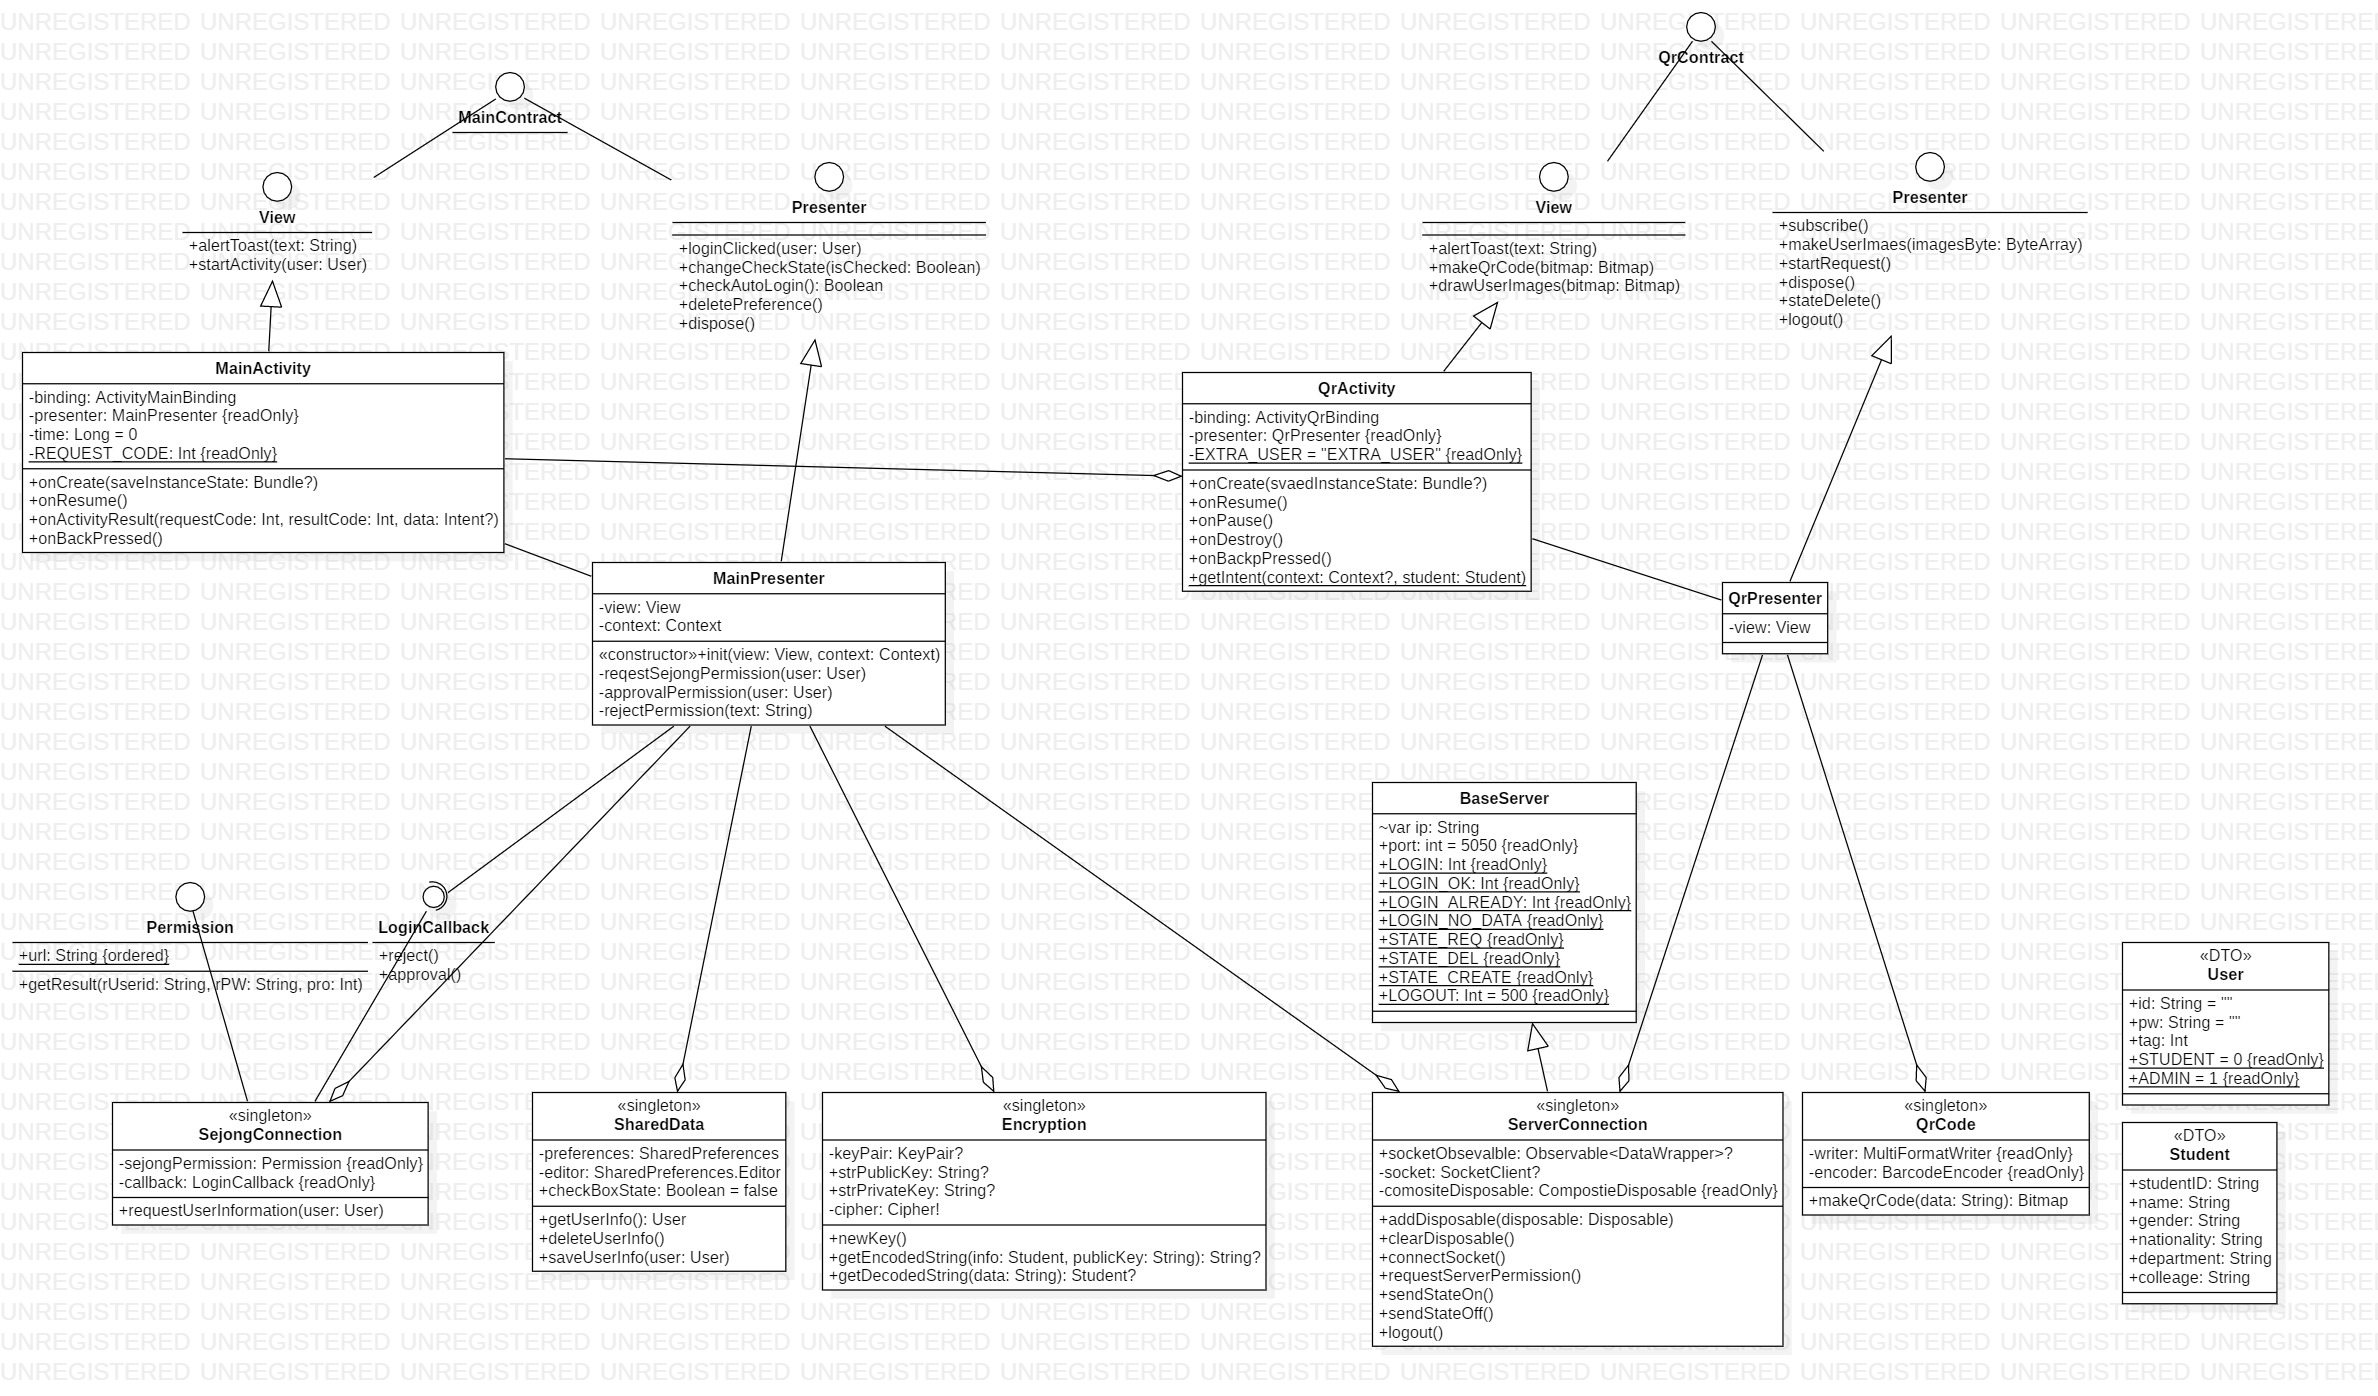
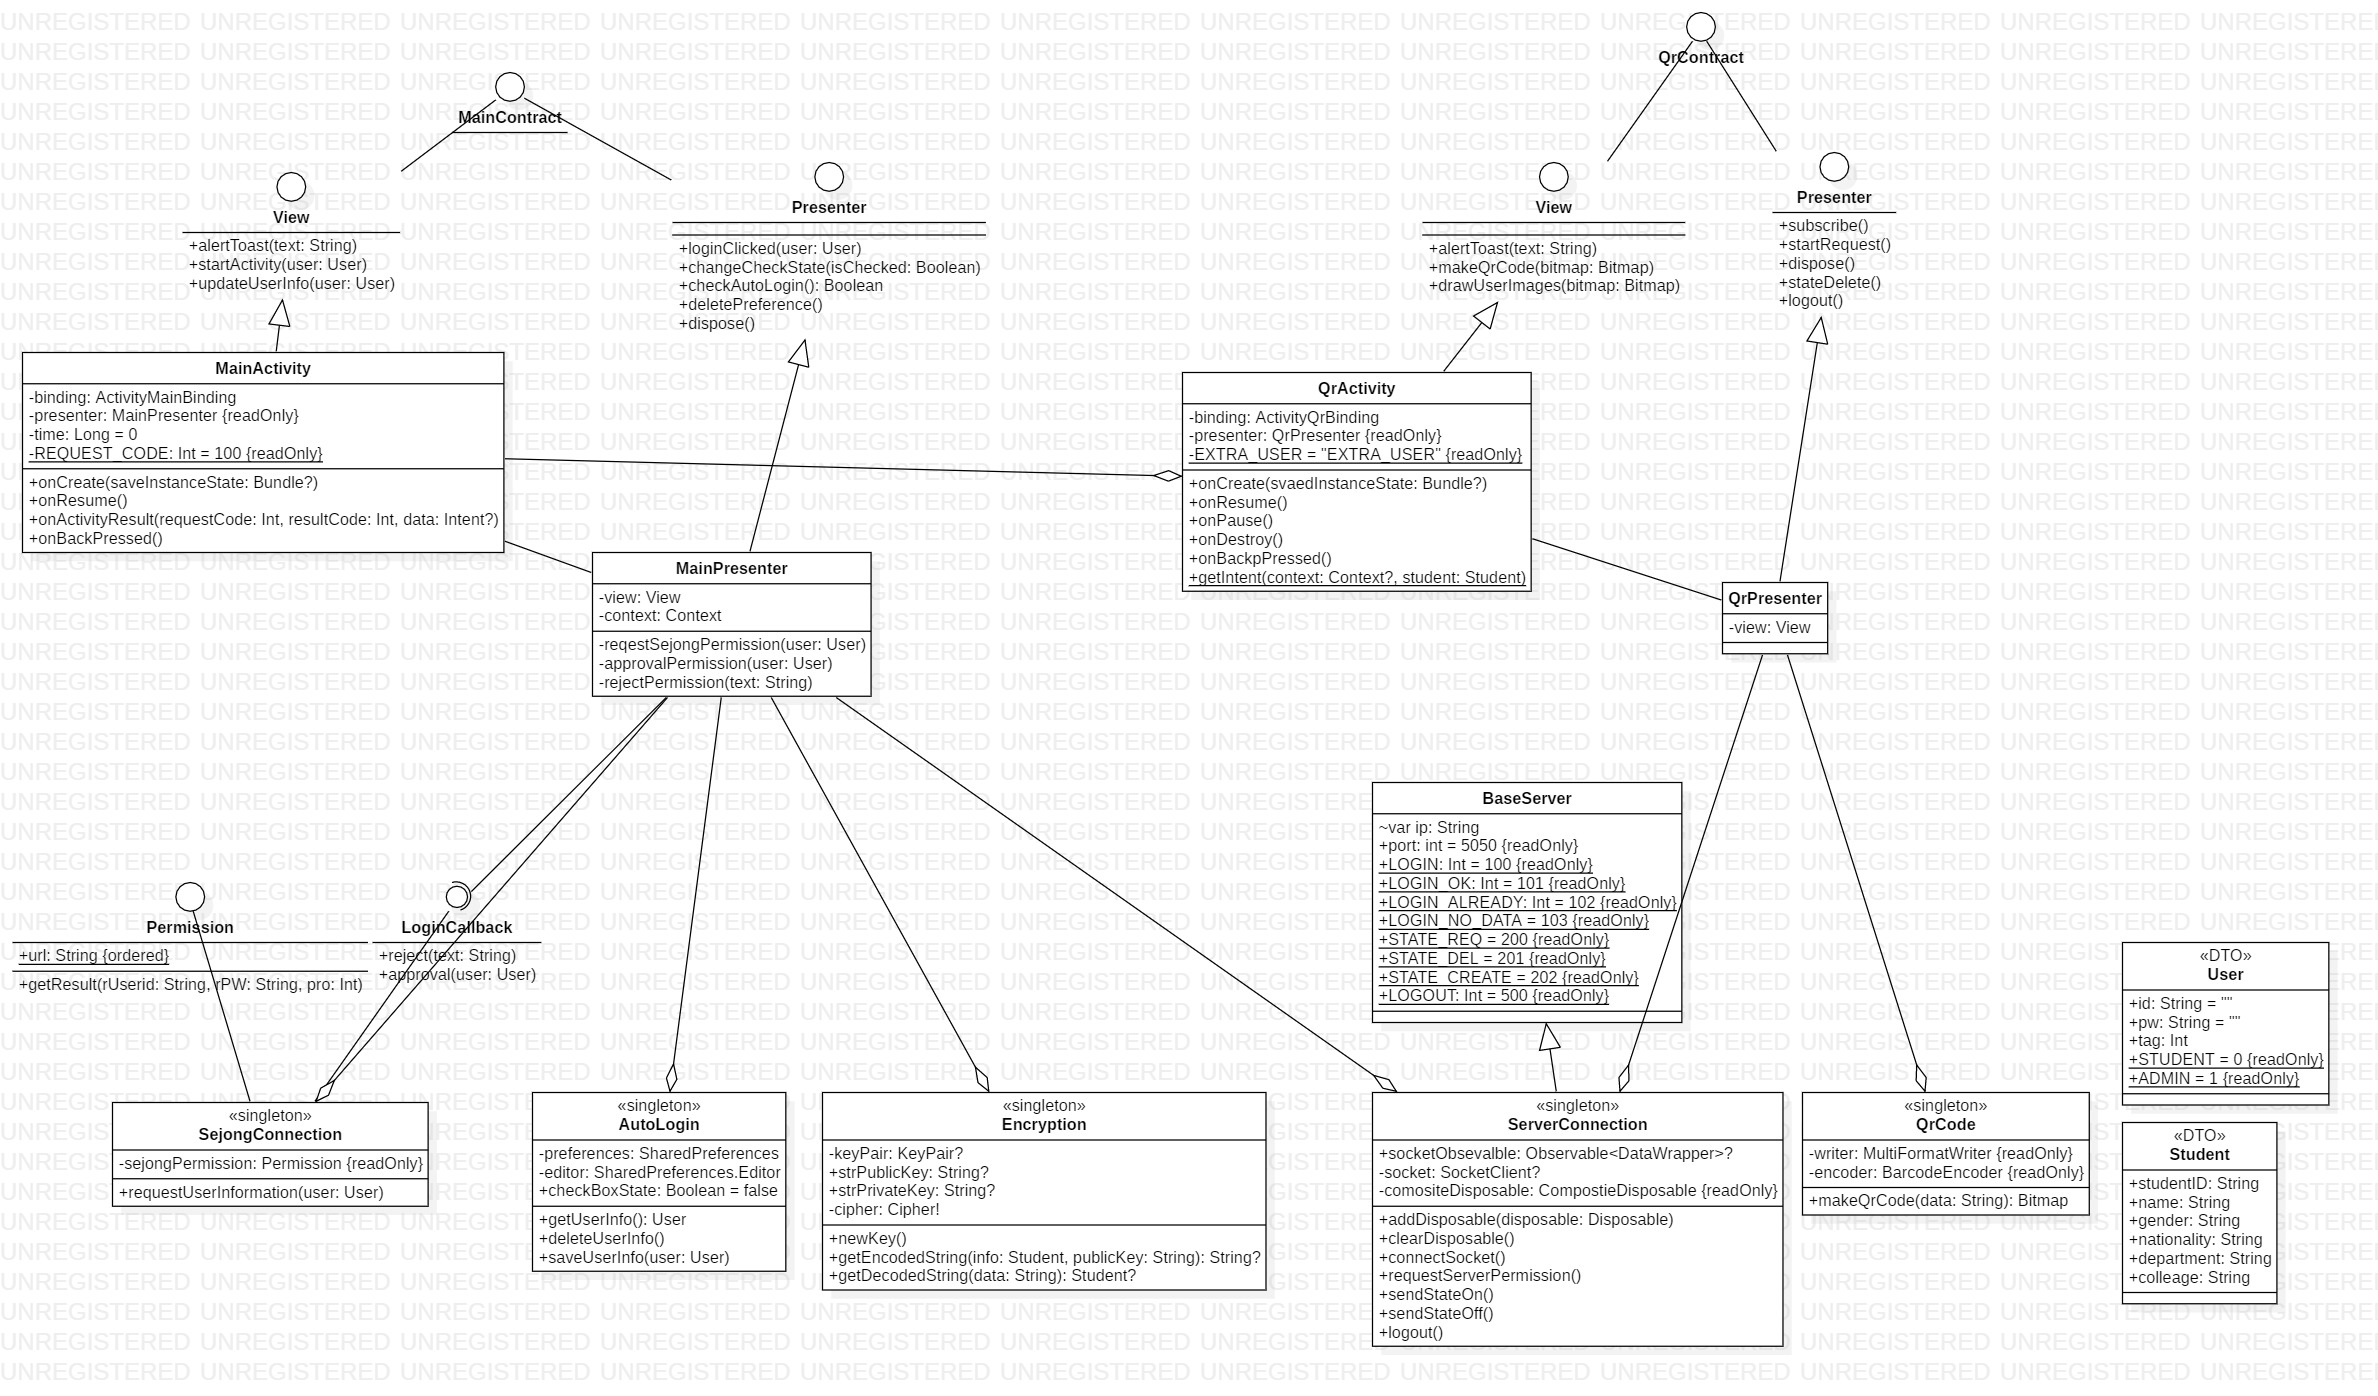
model 파트 분리 & 클래스명 변경

diff --git a/GlobalRounge/app/src/main/java/capstonedesign/globalrounge/mainjob/MainPresenter.kt b/GlobalRounge/app/src/main/java/capstonedesign/globalrounge/mainjob/MainPresenter.kt
@@ -2,35 +2,33 @@ package capstonedesign.globalrounge.mainjob
 
 import Encryption.Encryption
 import android.content.Context
-import android.util.Log
 import capstonedesign.globalrounge.dto.ADMIN
 import capstonedesign.globalrounge.dto.STUDENT
+import capstonedesign.globalrounge.dto.Student
 import capstonedesign.globalrounge.dto.User
-import capstonedesign.globalrounge.model.SharedData
+import capstonedesign.globalrounge.model.AutoLogin
 import capstonedesign.globalrounge.model.permission.BaseServer.Companion.LOGIN_ALREADY
 import capstonedesign.globalrounge.model.permission.BaseServer.Companion.LOGIN_NO_DATA
 import capstonedesign.globalrounge.model.permission.BaseServer.Companion.LOGIN_OK
 import capstonedesign.globalrounge.model.permission.SejongConnection
 import capstonedesign.globalrounge.model.permission.ServerConnection
+import com.google.gson.Gson
 import com.google.gson.JsonObject
 import com.google.gson.JsonParser
-import com.google.gson.JsonSyntaxException
 import io.reactivex.android.schedulers.AndroidSchedulers
 import moe.codeest.rxsocketclient.SocketSubscriber
-import java.lang.Exception
 import java.nio.charset.StandardCharsets
-
 
 class MainPresenter(private val view: MainContract.View, context: Context) : MainContract.Presenter {
     init {
-        SharedData.setSharedPreferences(context)
+        AutoLogin.setSharedPreferences(context)
     }
     /**************** [ Override Function ] ****************/
     /**
      * 로그인 버튼이 눌렸을 때 동작하는 함수
      * Id, Pw의 상태를 내부적으로 확인
      * 일반 사용자 로그인
-     * @see requestSejongPermission : sejong 로그인 시도*
+     * @see requestSejongPermission : sejong 로그인 시도
      * 관리자 로그인
      * @see approvalPermission : sejong 로그인 허가
      * @param user : 로그인 할 유저정보
@@ -56,21 +54,21 @@ class MainPresenter(private val view: MainContract.View, context: Context) : Mai
      * @see capstonedesign.globalrounge.mainjob.MainActivity.onCreate
      *
      * 자동로그인 체크가 안되있을 시
-     * @see SharedData.deleteUserInfo
+     * @see AutoLogin.deleteUserInfo
      *
      * @param isChecked checkBox 체크여부
      */
     override fun changeCheckState(isChecked: Boolean) {
-        SharedData.checkBoxState = isChecked
+        AutoLogin.checkBoxState = isChecked
         if (!isChecked) {
-            SharedData.deleteUserInfo()
+            AutoLogin.deleteUserInfo()
         }
     }
 
     /**
      * 앱 실행시 자동로그인 check 여부 판단
      * @see capstonedesign.globalrounge.mainjob.MainActivity.onCreate
-     * @see SharedData.getUserInfo
+     * @see AutoLogin.getUserInfo
      *
      * 자동로그인이 되어있는 경우
      * @see requestSejongPermission
@@ -78,7 +76,7 @@ class MainPresenter(private val view: MainContract.View, context: Context) : Mai
      * @return Boolean
      */
     override fun checkAutoLogin(): Boolean {
-        SharedData.getUserInfo().let {
+        AutoLogin.getUserInfo().let {
             if (it.id != "" && it.pw != "") {//자동로그인이 되어있다면
                 view.updateUserInfo(it)
                 requestSejongPermission(it)
@@ -94,7 +92,7 @@ class MainPresenter(private val view: MainContract.View, context: Context) : Mai
      * @see capstonedesign.globalrounge.mainjob.MainActivity.onActivityResult
      */
     override fun deletePreference() {
-        SharedData.deleteUserInfo()
+        AutoLogin.deleteUserInfo()
     }
 
     /**
@@ -116,6 +114,7 @@ class MainPresenter(private val view: MainContract.View, context: Context) : Mai
      * @param user : 요청할 사용자 정보
      */
     private fun requestSejongPermission(user: User) {
+
         SejongConnection.requestUserInformation(user, object : SejongConnection.LoginCallback {
             override fun approval(user: User) {
                 approvalPermission(user)
@@ -139,6 +138,7 @@ class MainPresenter(private val view: MainContract.View, context: Context) : Mai
 
         val ref = ServerConnection.socketObservable!!
             .observeOn(AndroidSchedulers.mainThread())
+            .doOnError { t->view.alertToast("에러띠!${t.printStackTrace()}") }//TODO 추가된 socketCloseException
             .subscribe(object : SocketSubscriber() {
                 override fun onConnected() {
                     Encryption.newKey()
@@ -155,9 +155,9 @@ class MainPresenter(private val view: MainContract.View, context: Context) : Mai
                         (JsonParser().parse(str) as JsonObject).let { jsonObject ->
                             when (jsonObject.get("seqType").asInt) {
                                 LOGIN_OK -> {
-                                    Encryption.getDecodedString(jsonObject.get("data").asString).let { student ->
-                                        SharedData.saveUserInfo(user)//체크박스에 따른 자동로그인 저장
-                                        view.startActivity(student!!)//액티비티 시작
+                                    Encryption.getDecodedString(jsonObject.get("data").asString).let { string ->
+                                        AutoLogin.saveUserInfo(user)//체크박스에 따른 자동로그인 저장
+                                        (Gson().fromJson<Any>(string, Student::class.java) as Student).let { view.startActivity(it) }
                                     }
                                 }
                                 LOGIN_ALREADY -> {

diff --git a/GlobalRounge/app/src/main/java/capstonedesign/globalrounge/model/util/Encryption.kt b/GlobalRounge/app/src/main/java/capstonedesign/globalrounge/model/util/Encryption.kt
@@ -49,11 +49,12 @@ object Encryption {
 
         val key: PublicKey
 
-        val bKey = Base64.decode(publicKey.toByteArray(), 0)
-        val pKeySpec = X509EncodedKeySpec(bKey)
-        key = KeyFactory.getInstance("RSA").generatePublic(pKeySpec)
+        Base64.decode(publicKey.toByteArray(), 0).apply {
+            key = KeyFactory.getInstance("RSA").generatePublic(X509EncodedKeySpec(this))
+        }
 
         cipher.init(Cipher.ENCRYPT_MODE, key)
+
         var encodedInfo = Gson().toJson(info)
 
         val strToByte = encodedInfo!!.toByteArray()
@@ -82,15 +83,15 @@ object Encryption {
     /**
      * 암호화 데이터 복호화 함수
      *
-     * 서버에서 받아온 개인정보를 복호화 할 때 쓰인다.
+     * 서버에서 받아온 정보를 복호화 할 때 쓰인다.
      * @see capstonedesign.globalrounge.mainjob.MainPresenter.approvalPermission
      *
      * @param data : 암호화된 데이터
      *
-     * @return Student : 복호화된 개인정보를 Student data Class 에 담아 리턴
+     * @return String : 복호화된 정보를 String으로 리턴
      * @see Student
      */
-    fun getDecodedString(data: String): Student? {
+    fun getDecodedString(data: String): String? {
         val str = StringBuilder()
 
         cipher.init(Cipher.DECRYPT_MODE, keyPair!!.private)
@@ -103,7 +104,7 @@ object Encryption {
             str.append(appendString)
         }
         keyPair=null
-        return Gson().fromJson<Any>(str.toString(), Student::class.java) as Student
+        return str.toString()
     }
 
 }

diff --git a/GlobalRounge/app/src/main/java/capstonedesign/globalrounge/model/permission/SejongConnection.kt b/GlobalRounge/app/src/main/java/capstonedesign/globalrounge/model/permission/SejongConnection.kt
@@ -9,7 +9,6 @@ import retrofit2.Response
 import retrofit2.Retrofit
 import retrofit2.http.POST
 import retrofit2.http.Query
-import java.io.IOException
 
 /**
  * 세종대학교 인증정보를 우회접근하여 받아오는 class
@@ -17,7 +16,6 @@ import java.io.IOException
  */
 object SejongConnection {
     private val sejongPermission: Permission
-
 
     /**
      * 우회로그인 결과를 되돌려주는 Callback Interface

diff --git a/GlobalRounge/app/src/main/java/capstonedesign/globalrounge/model/util/AutoLogin.kt b/GlobalRounge/app/src/main/java/capstonedesign/globalrounge/model/util/AutoLogin.kt
@@ -5,7 +5,7 @@ import android.content.SharedPreferences
 import capstonedesign.globalrounge.dto.User
 import capstonedesign.globalrounge.mainjob.MainPresenter
 
-object SharedData {
+object AutoLogin {
     //자동로그인에 필요한 변수
 
     private lateinit var preferences: SharedPreferences

diff --git a/GlobalRounge/app/src/main/java/capstonedesign/globalrounge/model/util/QrCode.kt b/GlobalRounge/app/src/main/java/capstonedesign/globalrounge/model/util/QrCode.kt
@@ -3,7 +3,6 @@ package capstonedesign.globalrounge.model
 import android.graphics.Bitmap
 import com.google.zxing.BarcodeFormat
 import com.google.zxing.MultiFormatWriter
-import com.google.zxing.common.BitMatrix
 import com.journeyapps.barcodescanner.BarcodeEncoder
 
 object QrCode {
